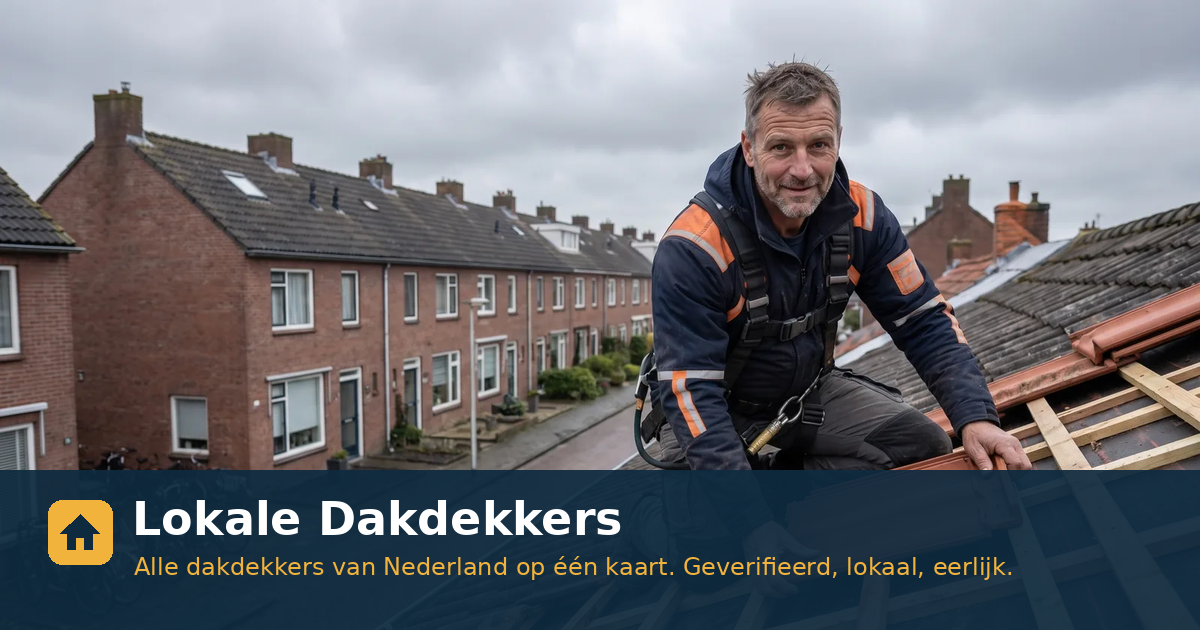
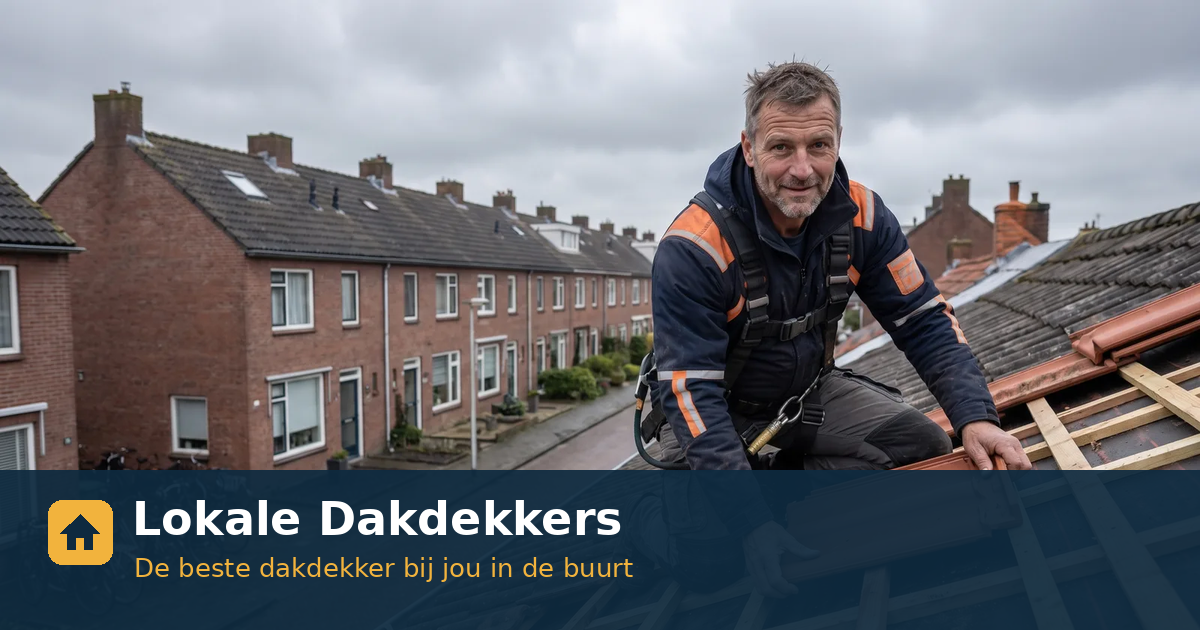
Pay-off: De beste dakdekker bij jou in de buurt; zijmarges op claim-, correctie-, factuur- en plaatspagina's

Changed region(s): [[0.0925, 0.8746, 0.8325, 0.9349]]

diff --git a/web/src/app/factuur/[id]/page.tsx b/web/src/app/factuur/[id]/page.tsx
@@ -25,11 +25,11 @@ export default async function Factuur({ params }: { params: Promise<{ id: string
         </div>
         <div style={{ marginTop: 28, fontSize: 15 }}><span style={{ color: "var(--ink-3)" }}>Aan</span><br /><b>{p.name}</b><br />{p.street ? `${p.street} ${p.housenumber ?? ""}` : ""}{p.street && p.postcode ? <br /> : null}{p.postcode ? `${p.postcode} ${p.city ?? ""}` : p.city ?? ""}{p.kvk_number ? <><br />KvK {p.kvk_number}</> : null}</div>
         <table style={{ width: "100%", marginTop: 28, borderCollapse: "collapse", fontSize: 15 }}>
-          <thead><tr style={{ borderBottom: "2px solid var(--line)", textAlign: "left" }}><th style={{ padding: "8px 0" }}>Omschrijving</th><th style={{ textAlign: "right" }}>Bedrag</th></tr></thead>
+          <thead><tr style={{ borderBottom: "2px solid var(--line)", textAlign: "left" }}><th style={{ paddingTop: 8, paddingBottom: 8 }}>Omschrijving</th><th style={{ textAlign: "right" }}>Bedrag</th></tr></thead>
           <tbody>
-            <tr style={{ borderBottom: "1px solid var(--line)" }}><td style={{ padding: "10px 0" }}>Geverifieerd profiel op {v.domain}, 12 maanden vanaf {date}</td><td style={{ textAlign: "right" }}>{f(excl)}</td></tr>
-            <tr><td style={{ padding: "8px 0", color: "var(--ink-2)" }}>Btw 21%</td><td style={{ textAlign: "right", color: "var(--ink-2)" }}>{f(btw)}</td></tr>
-            <tr style={{ borderTop: "2px solid var(--line)" }}><td style={{ padding: "10px 0" }}><b>Totaal, voldaan</b></td><td style={{ textAlign: "right" }}><b>{f(incl)} euro</b></td></tr>
+            <tr style={{ borderBottom: "1px solid var(--line)" }}><td style={{ paddingTop: 10, paddingBottom: 10 }}>Geverifieerd profiel op {v.domain}, 12 maanden vanaf {date}</td><td style={{ textAlign: "right" }}>{f(excl)}</td></tr>
+            <tr><td style={{ paddingTop: 8, paddingBottom: 8, color: "var(--ink-2)" }}>Btw 21%</td><td style={{ textAlign: "right", color: "var(--ink-2)" }}>{f(btw)}</td></tr>
+            <tr style={{ borderTop: "2px solid var(--line)" }}><td style={{ paddingTop: 10, paddingBottom: 10 }}><b>Totaal, voldaan</b></td><td style={{ textAlign: "right" }}><b>{f(incl)} euro</b></td></tr>
           </tbody>
         </table>
         <p style={{ color: "var(--ink-3)", fontSize: 13, marginTop: 24 }}>Deze factuur is al betaald; er hoeft niets te worden overgemaakt. Vragen: info@{v.domain}.</p>

diff --git a/web/src/app/og/[slug]/route.tsx b/web/src/app/og/[slug]/route.tsx
@@ -25,7 +25,7 @@ export async function GET(_req: Request, { params }: { params: Promise<{ slug: s
           <div style={{ width: 56, height: 56, borderRadius: 14, background: "#F2B33D", display: "flex", alignItems: "center", justifyContent: "center" }}>
             <svg width="34" height="34" viewBox="0 0 24 24" fill="none" stroke="#0E2A3F" strokeWidth="2.6" strokeLinecap="round" strokeLinejoin="round"><path d="M3 11l9-7 9 7" /><path d="M5 10v10h14V10" /><path d="M10 20v-6h4v6" /></svg>
           </div>
-          <div style={{ display: "flex", flexDirection: "column" }}><span style={{ fontSize: 30, fontWeight: 700 }}>{v.brand}</span><span style={{ fontSize: 16, color: "#F2B33D", letterSpacing: 2 }}>GEVERIFIEERD, LOKAAL, EERLIJK</span></div>
+          <div style={{ display: "flex", flexDirection: "column" }}><span style={{ fontSize: 30, fontWeight: 700 }}>{v.brand}</span><span style={{ fontSize: 16, color: "#F2B33D", }}>De beste {v.name_singular} bij jou in de buurt</span></div>
         </div>
         <div style={{ display: "flex", alignItems: "center", gap: 36 }}>
           {logo && <div style={{ width: 160, height: 160, borderRadius: 24, background: "#fff", display: "flex", alignItems: "center", justifyContent: "center", padding: 14 }}><img src={logo} width={132} height={132} style={{ objectFit: "contain" }} /></div>}

diff --git a/web/src/app/layout.tsx b/web/src/app/layout.tsx
@@ -33,7 +33,7 @@ export default async function RootLayout({ children }: { children: React.ReactNo
               <span className="logo-mark" aria-hidden="true">
                 <svg width="22" height="22" viewBox="0 0 24 24" fill="none"><path d="M3.5 12.5L12 5l8.5 7.5" stroke="#F2B45C" strokeWidth="2.6" strokeLinecap="round" strokeLinejoin="round" /><path d="M6.5 11.5V19h11v-7.5" stroke="#FFFFFF" strokeWidth="2.2" strokeLinecap="round" strokeLinejoin="round" /><path d="M10.5 19v-4.5h3V19" stroke="#FFFFFF" strokeWidth="2" strokeLinejoin="round" /></svg>
               </span>
-              <span className="brand-text"><span>{first} <span>{rest.join(" ")}</span></span><small>Geverifieerd, lokaal, eerlijk</small></span>
+              <span className="brand-text"><span>{first} <span>{rest.join(" ")}</span></span><small>De beste {v.name_singular} bij jou in de buurt</small></span>
             </a>
             <div className="navlinks desktop">
               <a href="/#provincies">Plaatsen</a>

diff --git a/web/src/app/corrigeren/[slug]/page.tsx b/web/src/app/corrigeren/[slug]/page.tsx
@@ -8,7 +8,7 @@ export default async function Corrigeren({ params, searchParams }: { params: Pro
   const v = await currentVertical(); const { slug } = await params; const { status } = await searchParams;
   const b = await getBusiness(slug, v.id); if (!b) notFound();
   return (
-    <main className="wrap" style={{ padding: "24px 0 64px", maxWidth: 640 }}>
+    <main className="wrap" style={{ paddingTop: 24, paddingBottom: 64, maxWidth: 640 }}>
       <nav className="crumbs"><a href={`/bedrijf/${b.slug}/`}>{b.name}</a><span>/</span><b>Gegevens corrigeren</b></nav>
       <h1 style={{ fontSize: 30 }}>Gegevens corrigeren voor {b.name}</h1>
       <p className="lede" style={{ marginTop: 8 }}>Gratis en zonder account. Klopt het adres, telefoonnummer of de naam niet, of is het bedrijf gestopt? Laat het weten; we verwerken het binnen drie werkdagen. Wil je het profiel beheren, dan kun je het <a href={`/claim/${b.slug}/`}>claimen</a>.</p>

diff --git a/web/src/app/globals.css b/web/src/app/globals.css
@@ -158,7 +158,7 @@ p { margin: 0; }
 .navlinks a.btn-primary:hover { background: var(--blue-dark); color: #fff; }
 .logo-mark { display: inline-flex; align-items: center; justify-content: center; width: 34px; height: 34px; border-radius: 9px; background: var(--navy); flex-shrink: 0; }
 .brand-text { display: flex; flex-direction: column; line-height: 1; }
-.brand-text small { font-family: 'Source Sans 3', sans-serif; font-weight: 600; font-size: 11px; letter-spacing: 0.12em; text-transform: uppercase; color: var(--ink-3); margin-top: 3px; }
+.brand-text small { font-family: 'Source Sans 3', sans-serif; font-weight: 600; font-size: 12.5px; letter-spacing: 0.01em; color: var(--ink-3); margin-top: 2px; }
 /* kennisbank */
 .art-card { gap: 8px; padding: 0 0 16px; overflow: hidden; }
 .art-card .art-thumb { margin: 0 0 6px; border-radius: 14px 14px 0 0; overflow: hidden; }

diff --git a/web/src/app/claim/[slug]/page.tsx b/web/src/app/claim/[slug]/page.tsx
@@ -21,7 +21,7 @@ export default async function ClaimBusiness({ params, searchParams }: { params: 
     limiet: <><b>Te veel pogingen.</b> Probeer het morgen opnieuw of mail naar info@{v.domain}.</>,
   };
   return (
-    <main className="wrap" style={{ padding: "24px 0 64px", maxWidth: 680 }}>
+    <main className="wrap" style={{ paddingTop: 24, paddingBottom: 64, maxWidth: 680 }}>
       <nav className="crumbs"><a href="/claim/">Claim je bedrijf</a><span>/</span><b>{b.name}</b></nav>
       <h1 style={{ fontSize: 32 }}>{b.name}</h1>
       <p className="lede" style={{ marginTop: 8 }}>{b.city ?? ""}{b.kvk_number ? `, KvK ${b.kvk_number}` : ""}</p>

diff --git a/web/src/app/[provincie]/[gemeente]/[plaats]/page.tsx b/web/src/app/[provincie]/[gemeente]/[plaats]/page.tsx
@@ -105,7 +105,7 @@ export default async function PlacePage({ params, searchParams }: Props) {
         </aside>
       </div>
 
-      <section style={{ display: "flex", flexWrap: "wrap", gap: 48, padding: "8px 0 48px" }}>
+      <section style={{ display: "flex", flexWrap: "wrap", gap: 48, paddingTop: 8, paddingBottom: 48 }}>
         <div className="faq" style={{ flex: "2 1 480px", minWidth: 0 }}>
           <h2 style={{ marginBottom: 12 }}>Veelgestelde vragen over {v.name_plural} in {p.name}</h2>
           {faq.map((f, i) => <details key={i} open={i === 0}><summary>{f.q}</summary><p>{f.a}</p></details>)}

diff --git a/web/src/app/[provincie]/[gemeente]/page.tsx b/web/src/app/[provincie]/[gemeente]/page.tsx
@@ -80,7 +80,7 @@ export default async function MunicipalityPage({ params }: Props) {
         </aside>
       </div>
 
-      <section className="faq" style={{ padding: "8px 0 48px", maxWidth: 760 }}>
+      <section className="faq" style={{ paddingTop: 8, paddingBottom: 48, maxWidth: 760 }}>
         <h2 style={{ marginBottom: 12 }}>Veelgestelde vragen over {v.name_plural} in {m.name}</h2>
         {faq.map((f, i) => (
           <details key={i} open={i === 0}><summary>{f.q}</summary><p>{f.a}</p></details>
